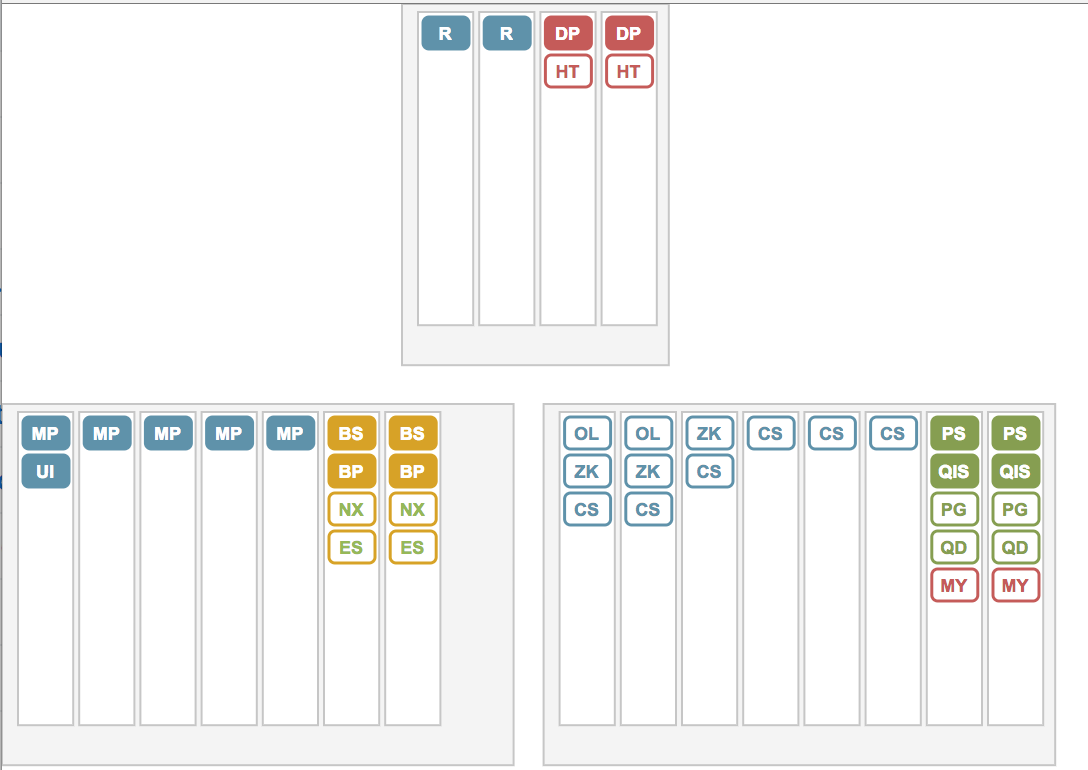
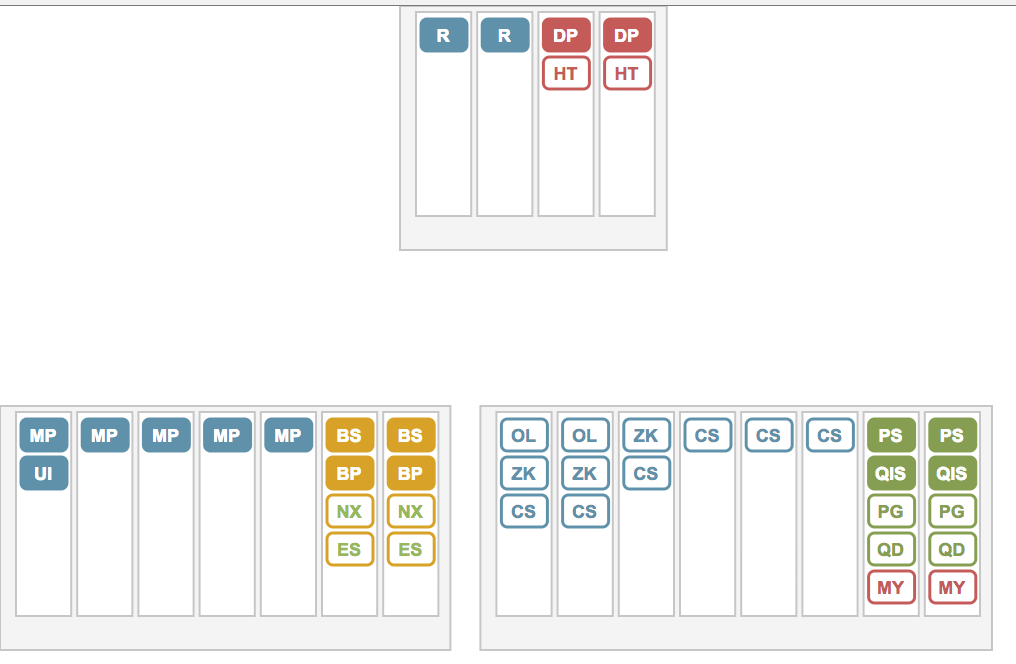
SVG Editor: resize nodes and subnets to fit the number of components.

diff --git a/generateSvgDiagram.js b/generateSvgDiagram.js
@@ -21,11 +21,6 @@ xml:space="preserve"
 version="1.1"
 id="svg2">
 
-
-<symbol id="node">
-    <rect id="node2" x="1" y="1" width="27.6" height="156.6" style="fill:#ffffff;stroke:#bfbfbf"/>
-</symbol>
-
 <symbol id="struct">
     <rect id="compcs2" x="1.5" y="1.5" width="23" height="16" rx="3" style="stroke-width:1.5"/>
 </symbol>
@@ -152,6 +147,22 @@ id="svg2">
     >PG</text>
 </symbol>
 
+<symbol id="pgm">
+    <use xlink:href="#struct" style="fill:#ffffff;stroke:#7a9543;"/>
+    <text id="text1488" x="12.5" y="10.5"
+        style="font-weight:bold;font-size:9px;font-family:Arial;fill:#7a9543;" 
+        alignment-baseline="middle" text-anchor="middle"
+    >PGm</text>
+</symbol>
+
+<symbol id="pgs">
+    <use xlink:href="#struct" style="fill:#ffffff;stroke:#7a9543;"/>
+    <text id="text1488" x="12.5" y="10.5"
+        style="font-weight:bold;font-size:9px;font-family:Arial;fill:#7a9543;" 
+        alignment-baseline="middle" text-anchor="middle"
+    >PGs</text>
+</symbol>
+
 
 <symbol id="dp">
     <use xlink:href="#struct" style="fill:#c0504d;stroke:#c0504d;"/>
@@ -186,6 +197,30 @@ id="svg2">
     >No</text>
 </symbol>
 
+<symbol id="tg">
+    <use xlink:href="#struct" style="fill:#ffffff;stroke:#ff6601;"/>
+    <text id="text1488" x="12.5" y="10.5"
+        style="font-weight:bold;font-size:9px;font-family:Arial;fill:#ff6601;" 
+        alignment-baseline="middle" text-anchor="middle"
+    >TG</text>
+</symbol>
+
+<symbol id="if">
+    <use xlink:href="#struct" style="fill:#ffffff;stroke:#ff6601;"/>
+    <text id="text1488" x="12.5" y="10.5"
+        style="font-weight:bold;font-size:9px;font-family:Arial;fill:#ff6601;" 
+        alignment-baseline="middle" text-anchor="middle"
+    >IF</text>
+</symbol>
+
+<symbol id="gf">
+    <use xlink:href="#struct" style="fill:#ffffff;stroke:#ff6601;"/>
+    <text id="text1488" x="12.5" y="10.5"
+        style="font-weight:bold;font-size:9px;font-family:Arial;fill:#ff6601;" 
+        alignment-baseline="middle" text-anchor="middle"
+    >GF</text>
+</symbol>
+
 `;
 
     var svgFooter = '</svg>';
@@ -204,7 +239,7 @@ id="svg2">
     var nodeSpacingH = 3;
     var nodePadding = 2;
 
-    var nodeTemplate = fp.template('\n<use id="node<%= id%>" xlink:href="#node"  x="<%= x %>" y="<%= y %>"/>');
+    var nodeTemplate = fp.template('\n<rect id="node<%= id%>" x="<%= x %>" y="<%= y %>" width="27.6" height="<%= height %>" style="fill:#ffffff;stroke:#bfbfbf"/>');
 
 
     //var subnetWidth = 15;
@@ -213,7 +248,7 @@ id="svg2">
 
     var subnetSpacingH = 15;
 
-    var subnetTemplate = fp.template('\n<rect id="subnet<%= id %>" x="<%= x %>" y="<%= y %>" width="<%= w %>" height="180.6" style="fill:#f2f2f2;stroke:#bfbfbf"/>');
+    var subnetTemplate = fp.template('\n<rect id="subnet<%= id %>" x="<%= x %>" y="<%= y %>" width="<%= width %>" height="<%= height %>" style="fill:#f2f2f2;stroke:#bfbfbf"/>');
 
 
     var tpComponents = [ "OL", "ZK", "CS", "HT", "No", "QD", "PG", "MY"];
@@ -229,6 +264,11 @@ id="svg2">
 
 
 
+    var maxNodeComponents = fp.max(fp.map(i=>i.components.length)(topology.layout));
+
+    var nodeHeightTotal = nodeHeight*maxNodeComponents
+        + (maxNodeComponents-1)*nodeSpacingH
+        + nodePadding*2 + 6;
 
     // 
     // 
@@ -259,7 +299,7 @@ id="svg2">
             var subnetNodes = subnet.nodes.length
             var subnetWidth = subnetNodes* nodeWidth + (subnetNodes-1)*nodeSpacingH + subnetPaddingH*2;
 
-            nodesSvg.push( subnetTemplate({id: 1, x: subnetX, y: subnetY, w:  subnetWidth }) );
+            nodesSvg.push( subnetTemplate({id: 1, x: subnetX, y: subnetY, width:  subnetWidth, height: nodeHeightTotal+20  }) );
 
             var nodeX = 0;
             var nodeY = 0;
@@ -269,7 +309,7 @@ id="svg2">
                 (acc, i) => {
                     console.log(i.components); 
                     
-                        acc.push( nodeTemplate({ id: i.node, x: subnetX + subnetPaddingH + nodeX, y: subnetY + subnetPaddingV + nodeY }) );
+                        acc.push( nodeTemplate({ id: i.node, x: 1+subnetX + subnetPaddingH + nodeX, y: subnetY + subnetPaddingV + nodeY, height: nodeHeightTotal }) );
                     
                         var compX = compPadding;
                         var compY = compPadding;
@@ -301,11 +341,6 @@ id="svg2">
 
 
     // Generate nodes
-    var maxNodeComponets = fp.max(fp.map(i=>i.components.length)(topology.layout));
-
-    var nodeHeightTotal = nodeHeight*maxNodeComponets
-        + (maxNodeComponets-1)*nodeSpacingH
-        + nodePadding*2;
 
     // Generate components
 

diff --git a/README.md b/README.md
@@ -100,7 +100,11 @@ The 'g diagram' command will generate an svg file that depicts Edge's topology.
 
 Diagrams for example u12 and u19 topologies are:
 
+u12:
+
 <img src="docs/svgdiagram-u12.png" width="400">
+
+u19:
 
 <img src="docs/svgdiagram-u19.png" width="400">
 
